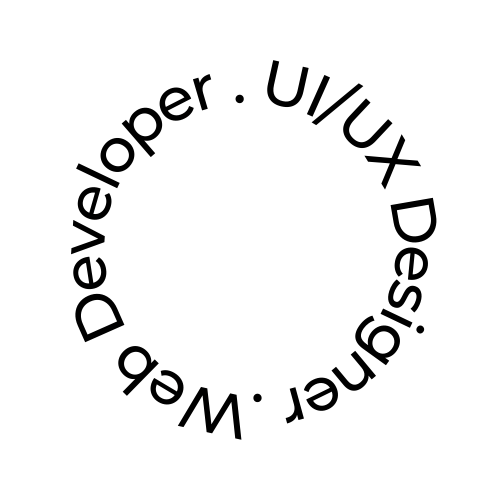
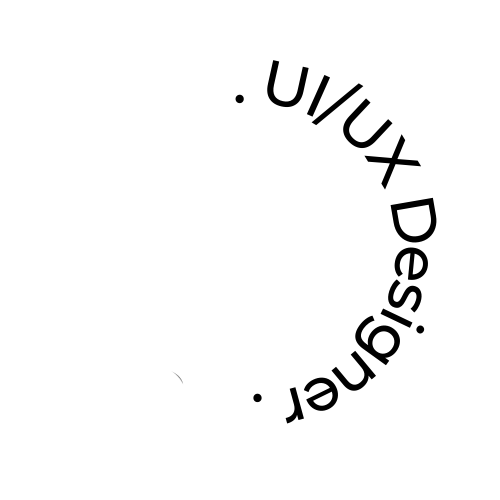
removed circular text, added info

Changed region(s): [[0.12, 0.15, 0.42, 0.69], [0.24, 0.69, 0.48, 0.87], [0.21, 0.6, 0.27, 0.66]]

diff --git a/src/components/Icons.js b/src/components/Icons.js
@@ -421,17 +421,23 @@ export const MoonIcon = ({ className, ...rest }) => (
 );
 
 export const CircularText = ({ className, ...rest }) => (
-    <svg
+    <svg id="Layer_1"
+        data-name="Layer 1"
         xmlns="http://www.w3.org/2000/svg"
-        width="496"
-        height="496"
-        viewBox="0 0 496 496"
-        xmlSpace="preserve"
+        width={500}
+        height={500}
+        viewBox="0 0 500 500"
         className={`w-full h-auto ${className}`}
         {...rest}>
-        <path d="M234.709 430.04c-.856-8.144-1.693-15.837-2.53-23.53l-1.202-.281c-4.328 7.025-8.66 14.048-12.983 21.076-.786 1.276-1.597 2.541-2.302 3.862-1.19 2.23-2.64 3.718-5.52 3.1-2.984-.64-3.269-2.735-3.526-5.216-1.021-9.853-2.186-19.691-3.465-31.02-5.824 9.69-11.023 18.148-16.013 26.728-2.136 3.671-4.532 4.592-8.005 1.873.081-2.568 1.784-4.33 2.944-6.291 5.848-9.894 11.813-19.72 17.695-29.593 1.202-2.018 2.465-3.423 5.18-2.695 2.768.741 4.08 2.124 4.361 5.149.888 9.53 2.102 19.032 3.284 29.375 4.161-4.222 5.983-8.91 8.686-12.98 2.855-4.297 5.458-8.769 8.02-13.25 1.283-2.245 3.03-2.15 5.127-1.717 1.928.397 3.567.971 3.8 3.26 1.398 13.72 2.797 27.441 4.162 41.165.044.444-.267.924-.405 1.363-6.239-.086-6.239-.086-7.308-10.378zM366.087 319.957c.827-.624 1.314-1.126 1.908-1.393 2.112-.95 4.324-3.378 6.46-.25 2.542 3.72-.984 4.348-3.112 5.658-2.441 1.503-4.49 3.447-6.186 5.751-4.283 5.819-3.58 9.84 2.853 14.524.628-6.345 2.9-11.685 8.217-15.276 2.83-1.911 5.936-3.118 9.365-2.975 7.026.294 13.737 5.742 15.377 12.296 1.976 7.893-2.3 15.713-11.264 20.606-1.077 1.008.262 1.81.225 2.705-.157 3.773-2.902 5.272-6.002 3.087-7.214-5.085-14.47-10.134-21.417-15.57-7.697-6.022-8.662-13.345-3.338-21.515 1.826-2.803 3.918-5.39 6.914-7.648m13.654 33.134c1.716.799 3.542.917 5.38.751 4.91-.443 9.299-5.322 9.573-10.58.26-4.977-2.98-9.086-7.886-10.002-4.912-.917-9.627 1.65-11.772 6.409-2.134 4.734-.779 9.134 4.705 13.422zM435.2 203.107c.744 7.814 3.645 14.952 2.28 22.568-1.904 10.635-8.45 16.69-20.02 18.295-8.14 1.13-16.863-3.986-20.811-12.505-3.333-7.19-3.58-15.12-4.98-22.77-.45-2.46 1.164-3.284 3.086-3.626 11.923-2.117 23.859-4.163 35.785-6.263 3.134-.552 4.098 1.356 4.66 4.301m-30.277 7.322c-1.92.828-4.285.303-6.085 1.908.58 5.153 1.038 10.285 3.01 15.075 2.644 6.425 7.935 9.604 14.954 9.266 6.8-.328 11.833-4.384 13.942-10.835 1.991-6.091-.355-11.79-1.27-17.61-.318-2.013-2.08-1.592-3.633-1.316-6.689 1.185-13.392 2.288-20.918 3.512zM81.41 333.52c-3.15-7.165-6.841-13.767-5.076-21.743 2.078-9.384 8.162-14.747 17.127-16.717 8.76-1.926 16.144 1.079 21.495 8.284 4.501 6.06 6.721 13.319 9.797 20.12 1.04 2.302-.357 3.338-2.212 4.16-11.088 4.918-22.188 9.809-33.236 14.815-2.671 1.21-4.015.255-4.977-2.164-.86-2.16-1.834-4.275-2.918-6.755m4.554-4.986 3.023 6.138c5.782-2.52 11.218-4.9 16.662-7.262 12.565-5.453 13.191-7.84 5.006-19.29a18.49 18.49 0 0 0-1.915-2.286c-5.023-5.048-11.78-5.876-18.298-2.275-6.345 3.505-9.216 9.868-7.401 16.786.67 2.555 1.709 5.013 2.923 8.189zM139.566 385.566c-3.229 3.375-6.237 6.473-9.215 9.6-1.523 1.599-2.974 1.865-4.678.187-1.652-1.627-2.473-3.231-.368-5.008 3.168-2.674 6.404-5.268 9.197-8.618-6.522-2.016-10.98-5.164-13.751-10.396-1.663-3.139-2.465-6.495-1.675-10.101 1.82-8.306 9.345-14.659 17.296-14.55 8.348.113 14.72 5.833 16.345 15.064 2.486-1.662 4.614-1.139 6.14 1.267 1.771 2.79-.947 3.849-2.282 5.239-5.523 5.75-11.173 11.378-17.009 17.316m-11.34-27.788c-3.949 6.497-2.924 12.506 2.698 15.828 5.174 3.058 12.167.632 15.12-5.245 2.715-5.403.524-11.466-5.184-14.086-4.784-2.195-8.682-.428-12.635 3.503zM150.251 142.09c-1.963.323-2.99.912-1.595 2.615 1.58 1.928 3.264 3.772 4.856 5.691 3.453 4.162 3.29 4.771-2.3 7.674-6.661-7.669-13.4-15.43-20.143-23.189-1.854-2.134-3.81-4.19-5.54-6.419-1.122-1.445-3.538-2.64-2.021-5.016 1.354-2.12 3.285-3.317 5.669-1.517 1.391-2.536 2.334-4.892 3.816-6.838 4.389-5.765 11.821-8.104 18.215-6.002 7.074 2.325 12.118 9.207 12.14 16.564.022 7.893-4.128 13.204-13.097 16.437m-12.2-23.524c-3.611 5.084-3.708 9.249-.315 13.564 3.274 4.163 7.963 5.637 12.291 3.735 3.913-1.719 6.51-4.486 6.657-9.029.156-4.818-2.094-8.374-6.198-10.51-4.21-2.192-8.331-1.616-12.434 2.24zM381.563 127.557c1.81-1.975 3.43-3.653 4.943-5.42 1.79-2.09 3.392-2.132 5.404-.146 1.952 1.925 1.45 3.343-.193 5.046-5.196 5.387-10.122 11.05-15.518 16.224-11.272 10.813-28.02 5.914-32.07-9.236-1.52-5.685.5-10.686 3.993-14.849 5.34-6.361 11.192-12.29 16.813-18.416 1.666-1.815 3.094-1.248 4.685.195 1.797 1.63 2.241 3.055.365 5.004a820.105 820.105 0 0 0-15.024 16.006c-5.023 5.506-5.539 10.896-1.691 15.599 5.119 6.257 11.25 6.858 17.275 1.338 3.795-3.476 7.2-7.377 11.018-11.345zM308.897 74.803c-1.545 6.714-2.708 13.11-4.428 19.351-3.16 11.468-11.25 16.327-22.196 13.713-11.332-2.707-16.17-10.557-13.773-22.503 1.34-6.68 2.746-13.35 4.269-19.99.48-2.095.428-4.86 4.187-4.079 3.564.74 3.475 2.712 2.8 5.509-1.521 6.3-3.008 12.616-4.202 18.983-1.961 10.45 2.48 16.267 11.943 16.002 5.263-.148 8.594-3.003 10.162-9.25 1.618-6.445 2.828-12.994 4.426-19.446.623-2.513.492-6.244 4.947-5.178 4.208 1.007 2.083 4.097 1.865 6.888zM395.041 170.055c-2.806 6.617-5.466 12.892-8.162 19.153-.1.232-.543.315-1.122.627-3.116-2.542-4.057-5.386-2.263-9.404 2.142-4.799 4.536-9.558 5.703-14.767-7.422-4.165-18.242 2.383-23.85-8.466 7.867-1.406 14.89.331 21.832.931 4.346.376 5.941-1.055 7.305-4.579 2.326-6.01 4.95-11.904 7.603-18.217 3.855 2.837 4.952 5.711 3.137 9.724-2.033 4.492-3.758 9.123-5.887 14.358 5.333.477 9.907 1.155 14.49 1.218 4.323.059 6.888 1.777 7.915 6.416-7.048 1.19-13.854-.716-20.685-.98-3.176-.123-5.147.424-6.016 3.986zM153.284 397.435c-2.755-5.033-2.726-9.792-.718-14.708 1.344-3.292 2.867-4.265 6.34-2.211 5.96 3.524 11.608 7.661 18.115 10.309 2.224-6.991-2.18-12.872-9.989-13.721-1.45-.158-3.055.4-4.318-.711-1.147-1.01-1.208-2.465-.769-3.697.779-2.183 2.849-1.982 4.659-1.958 8.405.11 16.363 6.839 18.028 15.193 1.395 6.998-2.998 15.218-9.837 18.405-7.634 3.558-15.503 1.128-21.511-6.901m4.868-9.982c-1.314 5.054.573 9.234 5.128 11.357 4.204 1.96 7.97 1.006 10.797-2.964-4.98-3.194-9.813-6.577-15.925-8.393zM321.22 393.132c2.876-1.654 5.922-2.343 7.888-4.784-4.754-5.578-12.795-4.962-17.288 1.46-1.57 2.246-2.875 4.482-5.737 2.189-2.74-2.195-.376-4.24.852-5.977 4.583-6.486 14.066-9.418 21.358-6.781 7.111 2.572 11.642 10.119 11.007 18.334-.543 7.026-6.699 13.267-14.39 14.59-6.34 1.09-13.733-2.82-16.694-8.621-1.304-2.554-.64-3.975 1.85-5.086 3.648-1.628 7.22-3.428 11.153-5.324m-5.213 8.703c2.199 3.864 6.384 5.218 10.788 3.488 4.638-1.82 6.51-5.812 5.071-11.7-5.229 2.612-10.348 5.17-15.86 8.212zM181.923 121.352c-9.447 2.255-17.037-1.685-20.43-10.31-3.235-8.218-.433-16.234 7.185-20.56 7.463-4.236 15.766-2.691 21.017 3.91 3.402 4.276 3.207 5.318-1.56 7.81-5.862 3.063-11.74 6.095-17.65 9.16 3.56 5.614 10.776 5.662 15.939.56a13.36 13.36 0 0 0 2.364-3.18c1.074-2.015 2.453-1.8 4.165-.983 2.04.974 1.996 2.456 1.154 4.14-2.47 4.941-6.705 7.69-12.184 9.453m-11.685-24.716c-2.187 1.726-3.465 4.042-3.705 6.745-.157 1.756.5 3.658 2.862 2.554 4.852-2.267 9.789-4.445 14.166-7.696-3.79-4.71-6.853-5.12-13.323-1.603zM97.055 261.275c1.567-2.905 3.307-3.474 5.706-1.349 5.557 4.924 6.615 16.782 2.025 23.61-4.33 6.443-14.638 8.928-22.015 5.308-6.91-3.39-10.584-12.394-8.254-20.035 1.775-5.822 5.906-9.112 11.497-10.76 3.008-.886 4.98-.338 5.427 3.535.792 6.87 2.133 13.675 3.253 20.567 6.884-2.107 8.954-9.795 4.893-16.402-.854-1.39-2.546-2.247-2.532-4.474m-11.63 21.756c1.222.5 2.449 1.1 3.765-.294-.752-5.83-1.074-11.836-2.955-17.705-7.945 4.011-8.389 11.934-.81 17.999zM104.456 218.73c-8.207 3.815-15.646 2.872-21.106-2.422-4.99-4.839-6.368-12.281-3.505-18.925 2.941-6.827 10.315-10.742 17.53-9.513 3.565.608 4.841 2.17 3.698 5.813-2.075 6.615-3.9 13.308-5.855 20.062 6.428.633 11.136-3.898 11.435-10.496.067-1.479.008-3.042-.404-4.445-.636-2.165-.206-3.56 2.002-4.293 2.58-.855 3.212 1.058 3.836 2.776 2.548 7.014-.457 15.656-7.63 21.443m-13.645-8.823c1.407-5.008 3.394-9.875 4.01-15.353-4.672-.567-7.538 1.42-9.401 5.135-1.89 3.767-1.493 7.404 1.154 10.633 1.066 1.3 2.538 3.218 4.237-.415zM410.619 259.145c.138-3.99-1.429-4.481-4.263-2.778-4.464 2.683-6.338 9.433-3.97 15.081.884 2.11 2.01 4.086-.776 5.466-2.903 1.438-3.946-.918-4.758-2.852-2.931-6.979-2.31-13.775 2.329-19.75 3.958-5.098 9.479-7.065 15.93-5.925 6.995 1.236 11.859 4.977 13.735 12.046 2.843 10.713-5.167 21.15-15.863 20.917-3.22-.07-4.612-1.297-4.258-4.497a2463.23 2463.23 0 0 0 1.894-17.708m8.803 13.76c6.285-6.456 5.22-13.662-2.69-16.878-2.356 4.563-1.05 9.699-2.212 14.45-.913 3.732.818 5.01 4.902 2.429zM102.516 163.098c-3.153-8.638-.649-15.459 5.812-20.857 5.579-4.661 11.885-4.771 18.224-1.505 6.224 3.206 9.43 8.614 9.173 15.432-.269 7.162-3.976 12.66-10.623 15.699-6.178 2.823-12.021 1.78-17.34-2.331-2.13-1.647-3.865-3.66-5.246-6.438m14.552 3.466c7.105.132 11.757-3.427 12.426-9.508.538-4.878-4.37-10.73-9.765-11.643-5.667-.959-10.753 2.684-12.094 8.66-1.101 4.91 1.997 9.304 9.433 12.491zM357.586 363.393c-1.708-2.07-3.208-3.848-4.664-5.663-1.262-1.574-1.177-2.94.56-4.214 1.612-1.182 3.075-2.07 4.712-.098 6.348 7.644 12.71 15.277 19.045 22.888-1.776 3.126-3.805 4.576-6.755 3.155-1.33 2.32-2.272 4.49-3.67 6.311-6.287 8.2-15.213 8.602-22.106.977-3.454-3.82-6.648-7.873-9.981-11.802-1.634-1.926-2.848-3.696-.13-5.837 2.538-2 3.854-.394 5.303 1.352 2.972 3.58 5.9 7.202 8.97 10.697 3.8 4.325 7.81 4.923 11.794 1.943 4.389-3.282 5.345-7.985 2.326-12.734-1.507-2.372-3.437-4.476-5.404-6.975zM399.54 309.053c-7.255-.205-10.922-3.78-10.795-10.47.11-5.832 2.27-11.028 5.864-15.592 1.222-1.552 2.497-3.367 4.874-1.395 2.062 1.712 1.639 3.234.101 5.062-1.938 2.305-3.379 4.951-4.137 7.894-.651 2.53-2.006 5.54 1.427 6.919 3.17 1.273 4.257-1.673 5.493-3.784 1.008-1.72 1.828-3.55 2.82-5.28 2.904-5.064 6.904-6.922 11.536-5.422 3.929 1.272 6.862 5.896 6.41 10.816-.446 4.872-2.162 9.38-5.14 13.328-1.181 1.568-2.511 2.838-4.512 1.076-1.607-1.415-2.037-2.892-.485-4.715 2.094-2.458 3.42-5.316 3.687-8.567.165-2.007.326-4.216-1.983-5.164-2.482-1.02-3.64 1.01-4.706 2.648-1.356 2.086-2.487 4.32-3.713 6.49-1.505 2.666-3.375 4.948-6.742 6.156zM100.408 245.498c-9.401 3.391-18.432 6.654-27.557 9.951-2.179-4.542-.775-6.713 3.166-8.054 6.886-2.344 13.695-4.915 21.522-7.747-7.224-3.829-13.461-7.287-19.842-10.457-3.347-1.662-4.948-3.756-3.49-7.536 2.05-.95 3.507.572 5.02 1.33 7.446 3.73 14.834 7.576 22.218 11.427 2.297 1.198 4.939 1.949 4.831 5.544-.114 3.814-2.79 4.51-5.868 5.542zM320.776 123.903c-3.03 2.933-5.455 2.59-7.621-.43.252-2.04 1.939-2.749 3.166-3.773 13.14-10.971 26.339-21.872 39.46-32.867 2.949-2.471 5.569-3.633 8.511.941-14.438 11.986-28.838 23.94-43.516 36.129zM317.695 91.786c1.99-4.435 3.942-8.475 5.677-12.607 1.072-2.55 2.318-3.785 5.252-2.426 2.743 1.27 2.532 2.874 1.477 5.185-4.896 10.723-9.693 21.491-14.494 32.257-1.019 2.285-1.944 4.202-5.122 2.713-3.04-1.425-2.51-3.299-1.434-5.658 2.894-6.344 5.684-12.736 8.644-19.464zM104.07 183.054c-9.182-4.378-18.02-8.602-26.735-12.768 1.134-6.287 1.96-6.77 7.045-4.323 10.951 5.269 21.87 10.607 32.833 15.85 2.348 1.123 4.06 2.187 2.514 5.24-1.512 2.983-3.405 1.807-5.39.868-3.31-1.567-6.615-3.142-10.267-4.867zM205.841 76.585c1.63-.88 2.914-1.685 4.627-1.37 2.093 2.766 2.67 5.104-1.294 7.005-5.157 2.473-5.628 7.016-4.446 11.898.973 4.02 2.29 7.958 3.437 11.937.635 2.205.975 4.236-2.05 5.057-2.757.747-3.834-.397-4.54-2.978-2.184-7.991-4.638-15.909-6.883-23.885-.447-1.588-1.758-3.538.8-4.715 2.126-.977 4.17-1.589 5.325 1.45 1.78-1.59 3.246-2.9 5.024-4.399zM299.833 420.84c-1.166-.919-1.725-2.784-3.257-.786-1.351 1.762-3.275 2.802-5.234 3.735-1.689.805-3.231.907-4.083-1.215-.674-1.681-.953-3.457 1.03-4.285 7.887-3.297 7.173-9.382 5.366-15.895-.889-3.201-1.72-6.418-2.617-9.617-.693-2.472.31-3.655 2.713-4.308 2.491-.677 3.308.569 3.852 2.58 2.297 8.492 4.553 16.996 6.96 25.457 1.233 4.334-1.738 4.17-4.73 4.335zM382.98 315.907c-2.085-2.31-.706-4.008.544-5.502 1.286-1.536 2.737-.36 4.04.26 7.486 3.559 14.95 7.164 22.445 10.703 2.351 1.11 3.991 2.3 2.443 5.293-1.52 2.94-3.394 1.766-5.381.816-7.927-3.788-15.861-7.56-24.092-11.57zM262.215 401.264c-2.09 2.312-4.258 2.664-6.445 1.065-1.596-1.166-2.202-2.908-1.41-4.869.947-2.347 2.808-3.425 5.183-2.714 3.062.916 4.18 3.069 2.672 6.518zM236.4 100.682c-.077-3.412 1.468-4.963 4.476-4.993 2.362-.024 3.67 1.39 4.117 3.53.472 2.257-.627 3.992-2.674 4.725-2.749.984-4.847.028-5.92-3.262zM424.818 332.395c-1.83 2.592-3.847 3.165-6.094 1.34-1.52-1.237-2.204-2.909-1.221-4.848 1.007-1.989 2.66-3.081 4.852-2.406 2.725.84 3.266 2.989 2.463 5.914z" />
-    </svg>
-);
+        <path d="m258.71,143.49c-1.29-.17-2.32-.76-3.09-1.76-.77-1-1.06-2.13-.89-3.38.17-1.25.75-2.27,1.76-3.06,1-.78,2.15-1.09,3.44-.91,1.26.17,2.26.76,3.03,1.78.76,1.02,1.06,2.16.89,3.41-.17,1.26-.75,2.26-1.75,3.03-1,.76-2.13,1.06-3.38.89Z" stroke-width="0" /><path d="m312.67,159.33c-.48-3.54.66-7.05,3.4-10.51l14.61-18.46,5.35,4.24.42.33-.33.42c-.3.06-.56.18-.78.36s-.54.53-.95,1.06l-12.95,16.37c-1.62,2.04-2.39,4.05-2.32,6.04s1.22,3.87,3.45,5.63c2.36,1.87,4.52,2.59,6.48,2.19,1.96-.41,3.77-1.66,5.44-3.76l14.53-18.36,5.26,4.16-14.5,18.33c-2.01,2.54-4.17,4.25-6.48,5.13-2.32.88-4.68,1.02-7.08.39-2.41-.62-4.79-1.87-7.15-3.73-3.79-3-5.92-6.26-6.39-9.81Z" stroke-width="0" /><path d="m334.77,182.03l4.49-3.31,5.32,7.21,20.77-15.33-5.04-6.83,4.49-3.31,14.2,19.24-4.49,3.31-5.22-7.07-20.82,15.36,5.46,7.4-4.44,3.28-14.73-19.96Z" stroke-width="0" /><path d="m367.77,241.81c2.22-2.81,5.52-4.43,9.92-4.87l23.43-2.35.68,6.79.05.53-.53.05c-.26-.17-.52-.28-.8-.31s-.75-.01-1.42.05l-20.77,2.08c-2.59.26-4.57,1.1-5.96,2.53-1.38,1.43-1.93,3.56-1.65,6.4.3,2.99,1.28,5.05,2.94,6.18,1.66,1.13,3.82,1.56,6.49,1.29l23.3-2.33.67,6.67-23.25,2.33c-3.22.32-5.95-.04-8.19-1.09-2.25-1.05-3.98-2.65-5.21-4.82-1.23-2.16-1.99-4.74-2.29-7.73-.48-4.8.39-8.61,2.6-11.41Z" stroke-width="0" /><path d="m367.33,270.64l16.67,14.81,19.78-8.56-1.23,7.38-13.68,5.91,11.06,9.84-1.17,7.03-15.94-13.72-20.76,9.06,1.28-7.67,14.4-6.27-11.63-10.36,1.24-7.43Z" stroke-width="0" /><path d="m346.82,334.07l28.27,23.83-7.23,8.58c-1.66,1.97-3.21,3.5-4.66,4.61-1.45,1.11-2.87,1.89-4.26,2.34-1.39.45-2.85.72-4.36.79-1.48.04-2.98-.12-4.48-.48s-3-.92-4.48-1.68c-1.48-.76-2.96-1.76-4.45-3.01-2.1-1.87-3.74-3.83-4.94-5.87-1.2-2.05-1.89-4.18-2.08-6.41-.19-2.23.2-4.58,1.17-7.05.97-2.47,2.59-5.05,4.86-7.74l6.66-7.89Zm-.23,8.65l-2.18,2.59c-2.09,2.48-3.37,4.81-3.85,7-.47,2.19-.27,4.25.61,6.18.88,1.93,2.32,3.71,4.31,5.34,2.08,1.7,4.15,2.89,6.2,3.56,2.05.67,4.09.64,6.12-.08,2.03-.72,4.04-2.26,6.03-4.62l2.68-3.18-19.92-16.79Z" stroke-width="0" /><path d="m324.7,359.34l21.01,30.42-23.73,16.39-3.14-4.54,18.16-12.55-5.33-7.72-15.04,10.39-3.2-4.64,15.04-10.39-6.17-8.94-18.02,12.45-3.17-4.59,23.59-16.29Z" stroke-width="0" />
+        <path d="m291.97,379.96c2.62-.12,5,.24,7.14,1.08l-1.45,6.29-.12.55-.55-.12c-.17-.24-.37-.47-.62-.69-.25-.23-.66-.45-1.24-.67-1.41-.31-2.93-.42-4.59-.34-1.65.07-3.37.43-5.16,1.05-1.12.39-2.13.85-3.01,1.36-.89.52-1.63,1.07-2.21,1.67-.59.6-.99,1.25-1.2,1.96s-.19,1.43.07,2.16c.17.48.41.88.74,1.21.32.32.74.6,1.24.84.5.24,1.18.43,2.02.57.85.14,1.84.27,3,.38,1.15.11,2.57.17,4.24.17,3.24.03,5.88.28,7.93.74,2.05.47,3.64,1.19,4.78,2.16,1.14.97,1.98,2.25,2.54,3.84.61,1.74.59,3.46-.05,5.16-.64,1.7-1.83,3.29-3.55,4.76-1.73,1.48-3.9,2.67-6.51,3.59-1.64.58-3.28.95-4.92,1.13-1.64.17-3.22.17-4.75,0-1.53-.18-2.97-.59-4.34-1.25l2.06-5.62.25-.53.53.26c.14.29.32.53.54.72.22.2.6.43,1.16.7,1.26.36,2.52.45,3.78.28,1.26-.17,2.62-.51,4.08-1.02.97-.34,1.83-.74,2.56-1.21.74-.47,1.34-.96,1.81-1.47.47-.52.8-1.05.98-1.59s.2-1.05.03-1.53c-.14-.41-.37-.77-.67-1.1-.3-.33-.73-.61-1.27-.83-.54-.23-1.23-.41-2.08-.55-.84-.14-1.9-.24-3.15-.3-1.26-.06-2.78-.08-4.58-.07-2.38-.08-4.4-.24-6.08-.48-1.68-.24-3.07-.63-4.18-1.18-1.11-.54-2.02-1.25-2.72-2.12-.7-.87-1.26-1.9-1.68-3.08-.6-1.7-.65-3.49-.16-5.39.49-1.89,1.65-3.71,3.47-5.44,1.82-1.74,4.43-3.2,7.83-4.39,2.76-.97,5.46-1.51,8.07-1.63Z" stroke-width="0" />
+        <path d="m264.16,388.1l.38,5.57-8.94.62,1.78,25.75,8.47-.58.38,5.56-23.86,1.65-.38-5.57,8.76-.6-1.78-25.81-9.18.63-.38-5.51,24.75-1.71Z" stroke-width="0" />
+        <path d="m225.75,390.06c2.31,2.06,3.89,4.61,4.74,7.64.85,3.03.91,6.39.17,10.09-.61,3.08-1.5,5.62-2.67,7.63-1.17,2.01-2.54,3.6-4.12,4.76-1.58,1.16-3.23,2-4.94,2.5-1.71.5-3.37.75-4.96.76-1.59,0-3.03-.12-4.31-.38-1.82-.36-3.56-.97-5.2-1.82-1.65-.85-3.08-1.87-4.29-3.06-1.22-1.19-2.11-2.55-2.7-4.08l4.69-3.18.43-.34.34.43c-.02.32-.01.62.03.91.04.29.23.71.57,1.26.51.71,1.09,1.34,1.74,1.89.66.55,1.44,1.04,2.34,1.46.9.42,1.92.74,3.04.97,1.13.22,2.24.31,3.34.25,1.1-.06,2.16-.31,3.17-.74,1.02-.44,1.97-1.07,2.86-1.89.89-.82,1.65-1.9,2.28-3.23s1.13-2.94,1.5-4.82c.45-2.26.59-4.28.42-6.05-.17-1.77-.62-3.33-1.34-4.69-.72-1.36-1.67-2.45-2.86-3.26-1.19-.82-2.58-1.38-4.17-1.7-.62-.12-1.25-.21-1.89-.26-.64-.05-1.28-.06-1.93-.03-.65.03-1.29.1-1.92.22-.63.11-1.27.28-1.92.51l-1.26,6.31,7.51,1.49-1.11,5.59-13.74-2.73,3.08-15.51c2.36-.9,4.74-1.41,7.15-1.56,2.41-.14,4.78.02,7.1.48,3.57.71,6.51,2.1,8.82,4.16Z" stroke-width="0" />
+        <path d="m184.27,415.99l-6.42-3.22-3.7-29.68-10.89,22.36-5.62-2.82-.48-.24.24-.48c.28-.12.51-.3.69-.52.18-.22.42-.63.72-1.23l15.36-30.61,5.52,2.77,3.57,31.4,11.87-23.66,5.73,2.87-16.58,33.05Z" stroke-width="0" />
+        <path d="m170.82,367.17l-24.7,27.51-21.46-19.27,3.69-4.11,16.43,14.75,6.27-6.98-13.6-12.21,3.77-4.2,13.6,12.21,7.26-8.08-16.29-14.63,3.73-4.15,21.33,19.15Z" stroke-width="0" />
+        <path d="m146.66,344.7l-31.07,20.05-8.01-12.42c-1.78-2.76-2.87-5.27-3.27-7.53-.4-2.26-.19-4.28.64-6.07.83-1.78,2.14-3.25,3.93-4.41,1.26-.82,2.67-1.3,4.22-1.45,1.55-.15,3.11.03,4.67.56,1.56.52,3,1.4,4.31,2.62l8.07-16.93,4.12,6.38-7.84,16.08,3.6,5.59,12.86-8.3,3.77,5.83Zm-21.42,5.56l-4.51-6.98c-1.29-1.99-2.61-3.22-3.97-3.69-1.36-.46-2.67-.29-3.93.53-.83.54-1.44,1.22-1.82,2.06-.38.83-.48,1.81-.29,2.94.19,1.13.72,2.37,1.6,3.74l4.44,6.88,8.48-5.47Z" stroke-width="0" />
+        <path d="m119.75,271.02c.05,1.3-.35,2.42-1.21,3.34-.86.92-1.92,1.41-3.18,1.46-1.26.05-2.37-.36-3.31-1.21-.94-.85-1.44-1.94-1.49-3.24-.05-1.27.37-2.36,1.24-3.28.88-.92,1.95-1.41,3.21-1.46,1.27-.05,2.36.36,3.28,1.21.92.86,1.41,1.92,1.46,3.18Z" stroke-width="0" />
+        </svg>);
 
 export const LinkArrow = ({ className, ...rest }) => (
     <svg

diff --git a/src/pages/work/h2games.js b/src/pages/work/h2games.js
@@ -30,16 +30,16 @@ const h2games = () => {
                         Work Description
                     </h2>
                     <p>
-                        To create material for GameJam event held by H2Games and Nanyang Polytechnic. Material include event banner, website page, event t-shirt design.
+                    To create material for GameJam event held by H2Games and Nanyang Polytechnic. Material include event banner, website page, event t-shirt design.
                     </p>
                     <h2 className="text-lg font-bold uppercase">Process</h2>
-                    <p>
-                        Referencing previous event design style, I created the draft of the event banner. 
-                    </p>
+                    <ul className="list-disc">
+                    <li className="list-item">Referencing previous event design style, I created the draft of the event banner.</li> 
+                    </ul>
                     <h2 className="text-lg font-bold uppercase">Challenges Faced</h2>
-                    <p>Have been primarily use to the simplistic graphic design style.
+                    <p>As I have been primarily used to the simplistic graphic design style.
                     I had to understand compostions of more complicated/busy designs. I took inspiration from moodboards and material available online. H2Games designer's feedback also helped with this process.
-                       </p>
+                    </p>
                 </Layout>
             </main>
         </>

diff --git a/src/pages/projects/socialhero.js b/src/pages/projects/socialhero.js
@@ -78,9 +78,9 @@ const socialhero = () => {
                                 <li className="list-item">Conducted focus groups</li>
                             </ol>
                             <h2 className="font-bold uppercase text-lg my-4">Challenges Faced:</h2>
-                            <ul className="list-disc ml-4"><li className="list-item font-bold">Title</li></ul>
+                            <ul className="list-disc ml-4"><li className="list-item font-bold">Asking the right questions</li></ul>
                             <p className="ml-8">
-                                Description
+                                One of the challenges faced is structuring the focus group sessions. 
                             </p>
                         </div>
                     </div>

diff --git a/src/pages/index.js b/src/pages/index.js
@@ -64,7 +64,7 @@ export default function Home() {
                         </div>
                     </div>
                 </Layout>
-                <HireMe />
+                {/*<HireMe />*/}
             </main>
         </>
     );
